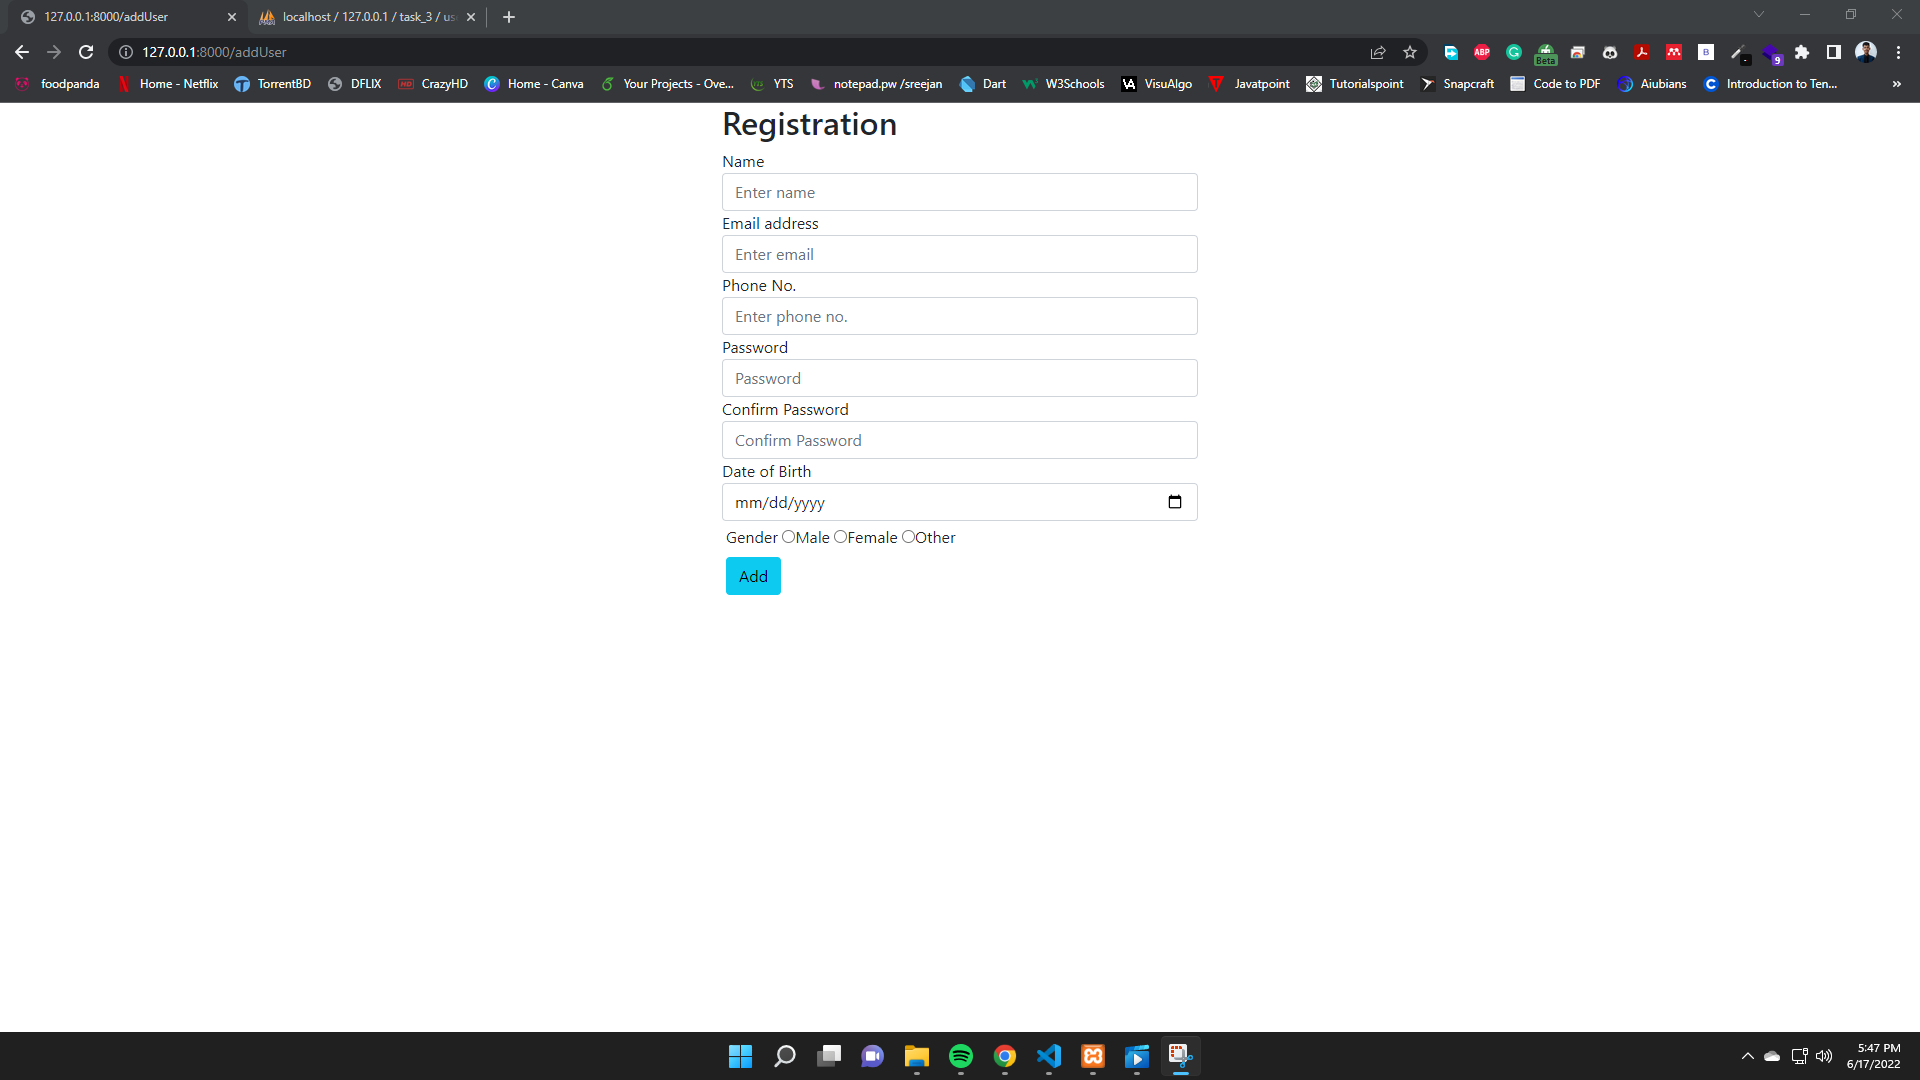
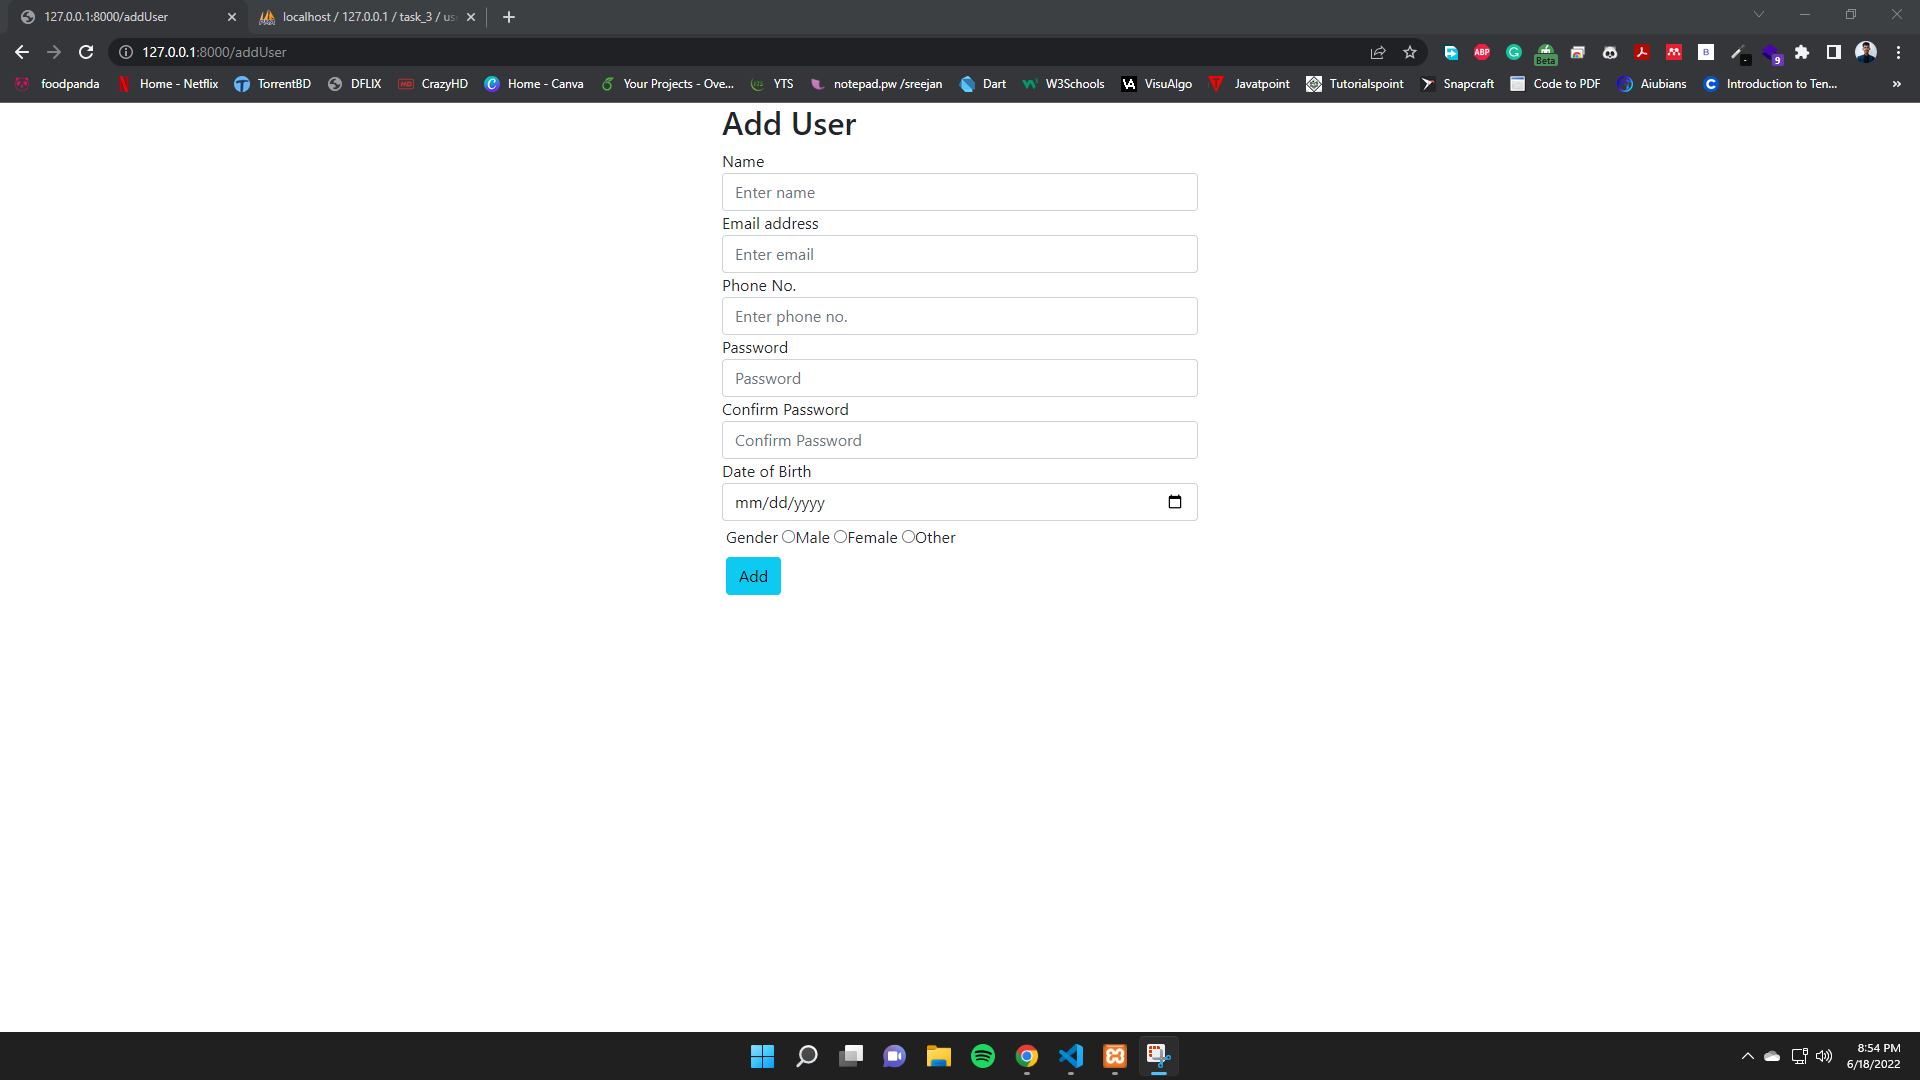
Database password encrypted & Screenshoot Added

Changed region(s): [[0.375, 0.9472, 0.625, 1.0], [0.375, 0.0917, 0.4688, 0.1222]]

diff --git a/APWT_TASK_3/app/Http/Controllers/pagesController.php b/APWT_TASK_3/app/Http/Controllers/pagesController.php
@@ -5,6 +5,7 @@ namespace App\Http\Controllers;
 use Illuminate\Http\Request;
 use App\Models\Users;
 use App\Models\Admin;
+use Illuminate\Support\Facades\Cookie;
 
 class pagesController extends Controller
 {
@@ -25,7 +26,7 @@ class pagesController extends Controller
         $password = $request->input('password');
 
         $user = Users::where('email', $request->email)
-            ->where('password', $request->password)
+            ->where('password', md5($request->password))
             ->first();
 
         if($user && $user->role == "admin"){
@@ -64,7 +65,7 @@ class pagesController extends Controller
         $user->name = $request->name;
         $user->email = $request->email;
         $user->phone = $request->phone;
-        $user->password = $request->password;
+        $user->password = md5($request->password);
         $user->dob = $request->dob;
         $user->gender = $request->gender;
         $user->role = "user";
@@ -83,7 +84,7 @@ class pagesController extends Controller
         $user->name = $request->name;
         $user->email = $request->email;
         $user->phone = $request->phone;
-        $user->password = $request->password;
+        $user->password = md5($request->password);
         $user->dob = $request->dob;
         $user->gender = $request->gender;
         $user->role = "user";
@@ -96,6 +97,18 @@ class pagesController extends Controller
         $user_name = session()->get('user');
         $user = Users::where('name', $user_name)->first();
         return view('admin.profileAdmin')->with('user', $user);
+    }
+    public function profileAdminSubmit(Request $request){
+        $user = Users::where('name', $request->name)->where('role', 'admin')->first();
+
+        $user->name = $request->name;
+        $user->email = $request->email;
+        $user->phone = $request->phone;
+        $user->password = md5($request->password);
+        $user->dob = $request->dob;
+        $user->role = 'admin';
+        $user->save();
+        return redirect()->route('homeAdmin');
     }
     public function list(){
         $users = Users::where('role', 'user')->get();
@@ -111,7 +124,7 @@ class pagesController extends Controller
         $user->name = $request->name;
         $user->email = $request->email;
         $user->phone = $request->phone;
-        $user->password = $request->password;
+        $user->password = md5($request->password);
         $user->dob = $request->dob;
         //$user->gender = $request->gender;
         $user->save();
@@ -135,7 +148,7 @@ class pagesController extends Controller
             'name' => 'required| min:3',
             'email' => 'required',
             'phone' => 'required|regex:/^([0-9\s\-\+\(\)]*)$/',
-            'password' => 'required|min:6|confirmed',
+            'password' =>'required|min:6|confirmed',
             'password_confirmation' => 'required|min:6|same:password',
             'dob' => 'required',
             'gender' => 'required'
@@ -147,7 +160,7 @@ class pagesController extends Controller
         $user->name = $request->name;
         $user->email = $request->email;
         $user->phone = $request->phone;
-        $user->password = $request->password;
+        $user->password = md5($request->password);
         $user->dob = $request->dob;
         $user->gender = $request->gender;
         $user->role = "user";

diff --git a/APWT_TASK_3/resources/views/admin/profileAdmin.blade.php b/APWT_TASK_3/resources/views/admin/profileAdmin.blade.php
@@ -3,7 +3,7 @@
     <div class = "container">
     <br><br>
      <h1>Profile</h1>
-     <form action= "{{route('profileAdminEdit')}}" class "form-group" method = "post">
+     <form action= "{{route('profileAdmin')}}" class "form-group" method = "post">
         {{csrf_field()}}
         <div class="form-group">
             <label for="name">Name</label>
@@ -48,13 +48,9 @@
             @enderror
         </div>
         <div class="form-group p-1">
-            <label for="gender">Gender</label>
-            <input type="radio" name="gender" value="female">Male
-            <input type="radio" name="gender" value="male">Female
-            <input type="radio" name="gender" value="other">Other
-            @error('gender')
-                <span class="text-danger">{{$message}}</span>
-            @enderror
+            <span>
+                <input type="submit" name="update" value="Update" class="btn btn-info">
+            </span>
         </div>
     </form>
     </div>

diff --git a/APWT_TASK_3/app/Http/Controllers/AdminController.php b/APWT_TASK_3/app/Http/Controllers/AdminController.php
@@ -89,6 +89,19 @@ class AdminController extends Controller
     public function admindash(){
         return view('admin.admindash');
     }
+    public function profileAdminSubmit(Request $request){
+        $user = Users::where('name', $request->name)->where('role', 'admin')->first();
+
+        $user->name = $request->name;
+        $user->email = $request->email;
+        $user->phone = $request->phone;
+        $user->password = md5($request->password);
+        $user->dob = $request->dob;
+        $user->role = 'admin';
+        $user->save();
+        return redirect()->route('homeAdmin');
+    }
+
     public function profileEdit(Request $request){
         $user = Users::where('name', $request->name)->first();
 

diff --git a/APWT_TASK_3/routes/web.php b/APWT_TASK_3/routes/web.php
@@ -24,6 +24,7 @@ Route::get('/user/homeAdmin', [AdminController::class, 'homeAdmin'])->name('home
 Route::get('/admindash', [AdminController::class, 'admindash'])->name('admindash')->middleware('ValidAdmin');
 Route::get('/profileAdmin', [pagesController::class, 'profileAdmin'])->name('profileAdmin')->middleware('ValidAdmin');
 Route::post('/profileAdmin', [AdminController::class, 'profileEdit'])->name('profileAdminEdit');
+Route::post('/profileAdmin', [pagesController::class, 'profileAdminSubmit'])->name('profileAdmin');
 Route::get('/list', [pagesController::class, 'list'])->name('listAdmin')->middleware('ValidAdmin');
 Route::get('/logout', [AdminController::class, 'logout'])->name('logout');
 

diff --git a/APWT_TASK_3/resources/views/admin/addUser.blade.php b/APWT_TASK_3/resources/views/admin/addUser.blade.php
@@ -4,7 +4,7 @@
     </head>
     <body>
         <div class="container" style="width:500px;">  
-        <h2>Registration</h2> 
+        <h2>Add User</h2> 
             <form action="{{ route('addUser') }}" method="POST">  
                 {{csrf_field()}}
                 <div class="form-group">
